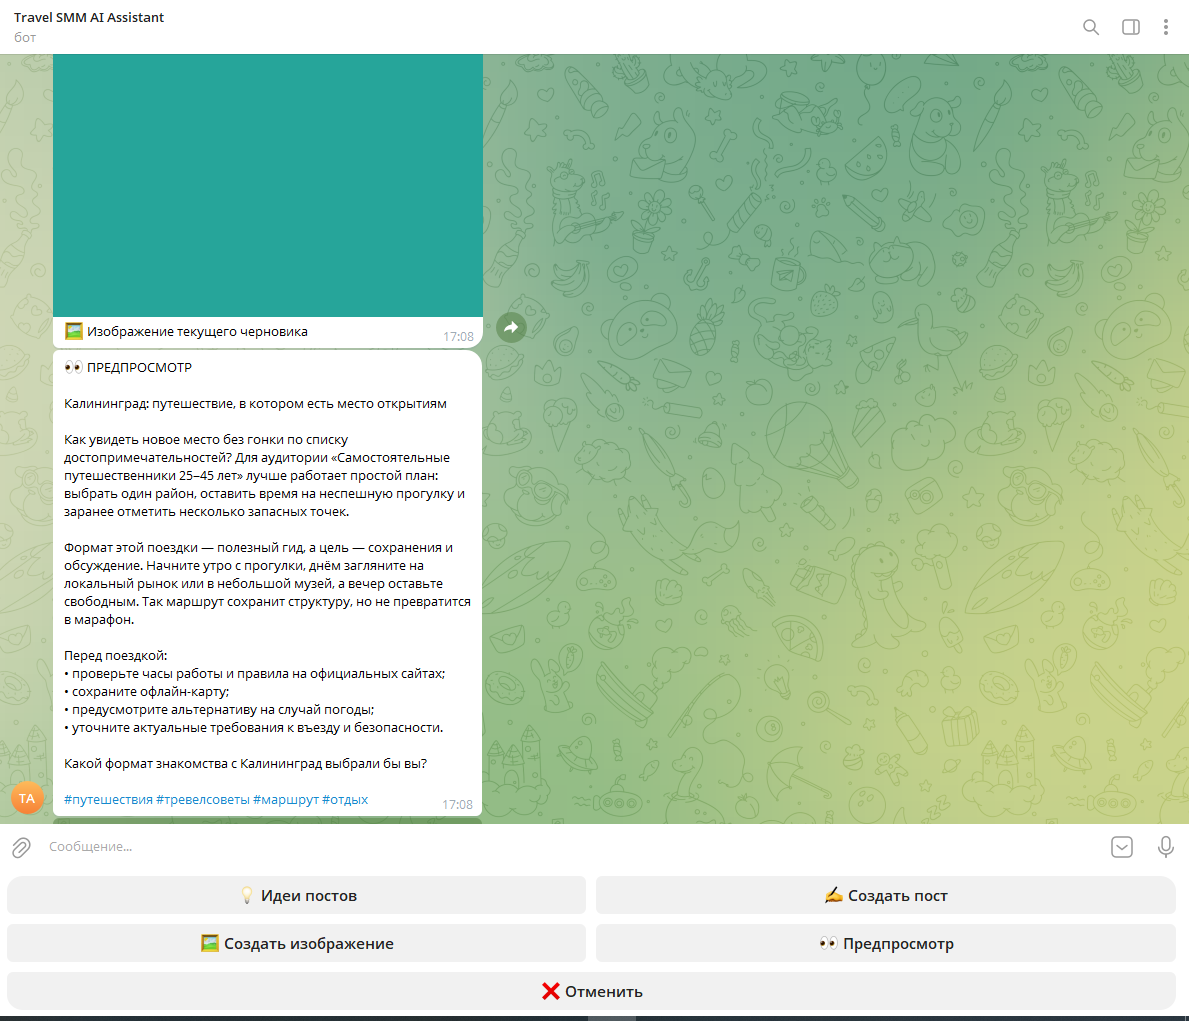
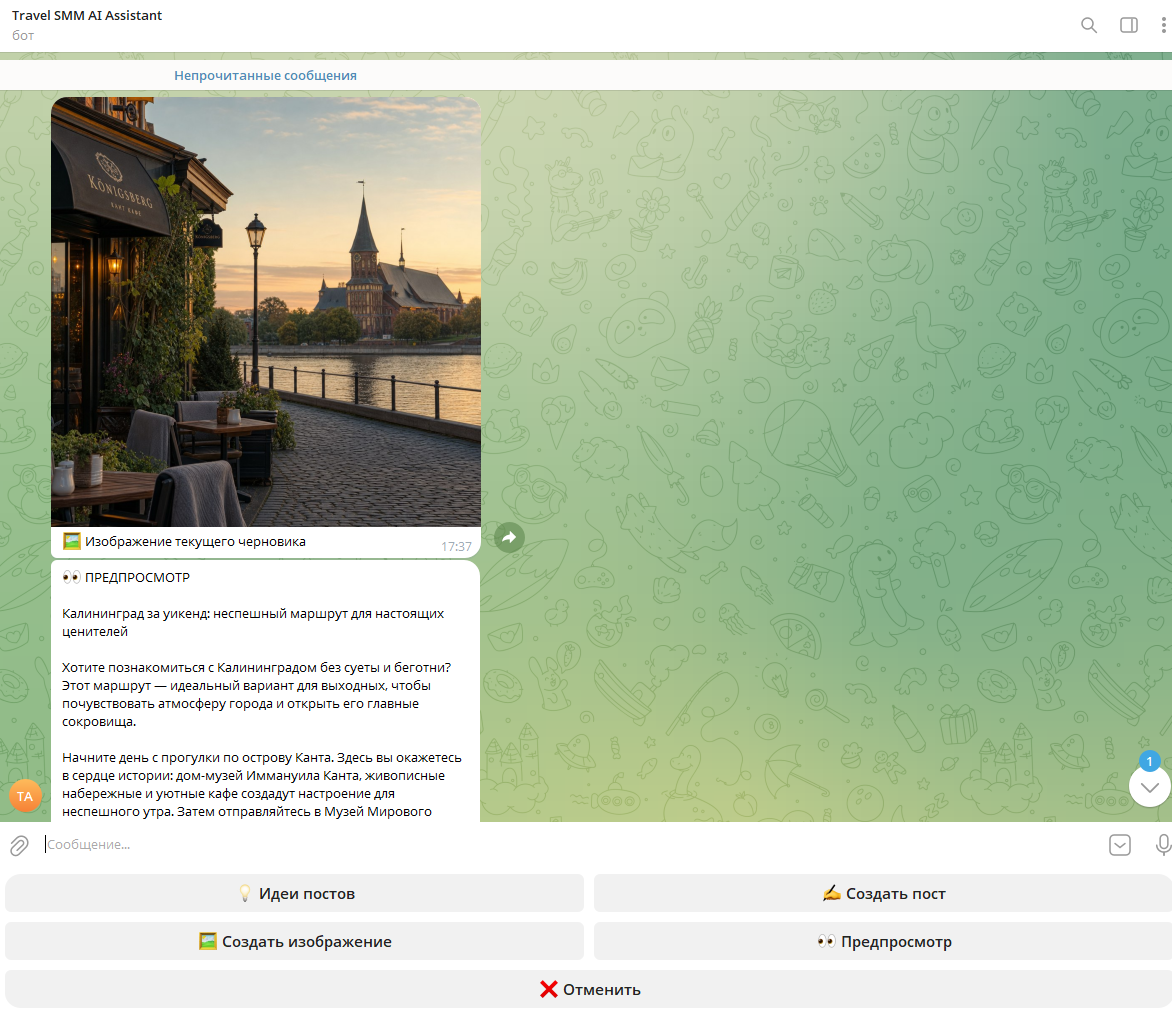
Document real OpenAI image generation demo

diff --git a/app/config.py b/app/config.py
@@ -71,8 +71,7 @@ def load_settings(env_file: str | Path = ".env") -> Settings:
         target_channel_id=_as_int("TARGET_CHANNEL_ID", os.getenv("TARGET_CHANNEL_ID")),
         openai_api_key=os.getenv("OPENAI_API_KEY") or None,
         openai_text_model=os.getenv("OPENAI_TEXT_MODEL", "gpt-4.1-mini"),
-        openai_image_model=os.getenv("OPENAI_IMAGE_MODEL", "gpt-image-1"),
+        openai_image_model=os.getenv("OPENAI_IMAGE_MODEL", "gpt-image-2"),
         database_path=Path(os.getenv("DATABASE_PATH", "data/travel_smm.db")),
         log_level=os.getenv("LOG_LEVEL", "INFO").upper(),
     )
-

diff --git a/docs/test_report.md b/docs/test_report.md
@@ -12,6 +12,8 @@
 
 Дополнение от 7 августа 2026 года: после автоматического прогона выполнен отдельный ручной тест в частном канале `Travel SMM AI Lab` с реальным Telegram Bot API и мок-сервисами ИИ.
 
+В тот же день выполнен второй ручной прогон с `MOCK_MODE=false`: модель `gpt-4.1-mini` создала текст, а `gpt-image-2` — тематическую иллюстрацию. Длинная публикация корректно отправлена как изображение с короткой подписью и отдельное полное сообщение.
+
 ## Автоматический результат
 
 ```text
@@ -28,17 +30,17 @@
 |---:|---|---|---|
 | 1 | Администратор запускает бота и видит меню | Проверено вручную | Реальный бот показал приветствие и меню |
 | 2 | Посторонний пользователь не получает доступ | Проверено автоматически | Middleware не передаёт событие обработчику |
-| 3 | Пять разных релевантных идей | Проверено автоматически и вручную в мок-режиме | Получено пять идей; реальный LLM проверить отдельно |
-| 4 | Пост учитывает тему, аудиторию, тон и формат | Проверено вручную в мок-режиме | Бриф Калининграда отражён в посте; качество реальной модели проверить отдельно |
+| 3 | Пять разных релевантных идей | Проверено автоматически и вручную в мок-режиме | Получено пять разных идей |
+| 4 | Пост учитывает тему, аудиторию, тон и формат | Проверено в мок- и реальном режимах | Реальный пост отражает бриф Калининграда |
 | 5 | Пустой/некорректный ввод не вызывает падение | Проверено автоматически | Границы 2–200 символов |
-| 6 | Изображение связано с черновиком | Проверено автоматически и вручную | PNG 512×512 показана в предпросмотре и канале |
+| 6 | Изображение связано с черновиком | Проверено в мок- и реальном режимах | Реальная AI-иллюстрация показана в предпросмотре и канале |
 | 7 | Новый текст не удаляет изображение | Проверено автоматически | Тест целостности черновика |
 | 8 | Новое изображение не удаляет текст | Проверено автоматически | Тест целостности черновика |
 | 9 | Отмена очищает сценарий | Логика и хранилище проверены | Полный кнопочный путь проверить вручную |
 | 10 | Публикация требует подтверждения | Проверено вручную | Первый клик открыл отдельный вопрос и две кнопки |
 | 11 | Отказ на подтверждении не публикует | Реализовано, требуется ручной прогон | Обработчик очищает состояние, черновик сохраняется |
 | 12 | Пост уходит только в заданный канал | Проверено автоматически и вручную | Материал опубликован в `Travel SMM AI Lab` |
-| 13 | Длинный текст безопасно разделяется | Проверено автоматически | Подпись ≤1024, сообщение ≤4096 |
+| 13 | Длинный текст безопасно разделяется | Проверено автоматически и вручную | Изображение получило короткую подпись, полный текст отправлен отдельно |
 | 14 | Ошибки API понятны и не ломают сессию | Проверено автоматически | Детали внутренней ошибки не раскрываются |
 | 15 | Черновик доступен после перезапуска | Проверено автоматически | Новый экземпляр хранилища читает SQLite-черновик |
 
@@ -48,7 +50,7 @@
 
 ## Выполненный ручной маршрут
 
-`/start` → пять идей → бриф из шести шагов → мок-текст → мок-изображение → предпросмотр → отдельное подтверждение → публикация в частный тестовый канал. Сохранены кадры `01`–`06` в `docs/screenshots/`. Реальный OpenAI API не использовался, расходы отсутствуют. Сценарии отказа от публикации и длинного текста остаются подтверждены автоматическими тестами, но не отдельным ручным прогоном.
+Выполнены два маршрута: полный мок-сценарий без расходов и реальный OpenAI-сценарий с текстом, изображением, предпросмотром и публикацией. Сохранены основные кадры `01`–`07`, дополнительный кадр полного текста `06b` и архив мок-версий. Сценарий отказа от публикации подтверждён автоматическим тестом, но не отдельным ручным прогоном.
 
 ## Команда повторного прогона
 

diff --git a/docs/project_report.md b/docs/project_report.md
@@ -19,12 +19,12 @@
 
 ## Ограничения и непроверенные части
 
-Выполнен ручной прогон с реальным Telegram-ботом и частным тестовым каналом: меню, идеи, бриф, мок-текст, мок-изображение, предпросмотр, подтверждение и публикация работают. Реальный OpenAI API не подключался, поэтому реальная генерация текста и изображений не заявляется как подтверждённая. Мок-режим и внутренняя логика проверены автоматически и вручную.
+Выполнены ручные прогоны с реальным Telegram-ботом и частным тестовым каналом. Проверены как мок-режим без расходов, так и реальный OpenAI-режим: `gpt-4.1-mini` создала текст, `gpt-image-2` — иллюстрацию, а длинная публикация корректно разделилась на изображение с подписью и отдельное сообщение.
 
 Проект не включает расписание, аналитику, CRM, платежи, веб-панель и многопользовательские роли — они не относятся к обязательному MVP.
 
 ## Дальнейшие действия
 
 1. Сохранить скриншот терминала с автоматическими тестами.
-2. При наличии API-доступа проверить реальный AI-режим.
-3. После финальной проверки разместить проект на GitHub и выбранной платформе.
+2. При необходимости выбрать платформу постоянного размещения.
+3. Записать короткое демонстрационное видео по готовому сценарию.

diff --git a/docs/screenshots/README.md b/docs/screenshots/README.md
@@ -8,7 +8,10 @@
 4. `04-image-preview.png` — изображение и предпросмотр.
 5. `05-publish-confirmation.png` — дополнительное подтверждение.
 6. `06-channel-result.png` — материал в тестовом канале.
-7. `07-tests-passed.png` — терминал с полным результатом pytest.
+7. `06b-channel-result-text.png` — продолжение длинной публикации с полным текстом.
+8. `07-tests-passed.png` — терминал с полным результатом pytest.
+
+Основные кадры `04` и `06` показывают реальную генерацию OpenAI. Первоначальные мок-версии сохранены в `archive/` для подтверждения автономного тестового режима.
 
 ## Правила
 
@@ -17,4 +20,3 @@
 - при необходимости скрыть фамилии, username и аватары;
 - не выдавать мок-заглушку за результат реальной генерации;
 - обновить `test_report.md` после ручной проверки.
-

diff --git a/README.md b/README.md
@@ -79,7 +79,7 @@ ADMIN_TELEGRAM_ID=ваш_числовой_id
 TARGET_CHANNEL_ID=-100xxxxxxxxxx
 OPENAI_API_KEY=
 OPENAI_TEXT_MODEL=gpt-4.1-mini
-OPENAI_IMAGE_MODEL=gpt-image-1
+OPENAI_IMAGE_MODEL=gpt-image-2
 DATABASE_PATH=data/travel_smm.db
 LOG_LEVEL=INFO
 ```
